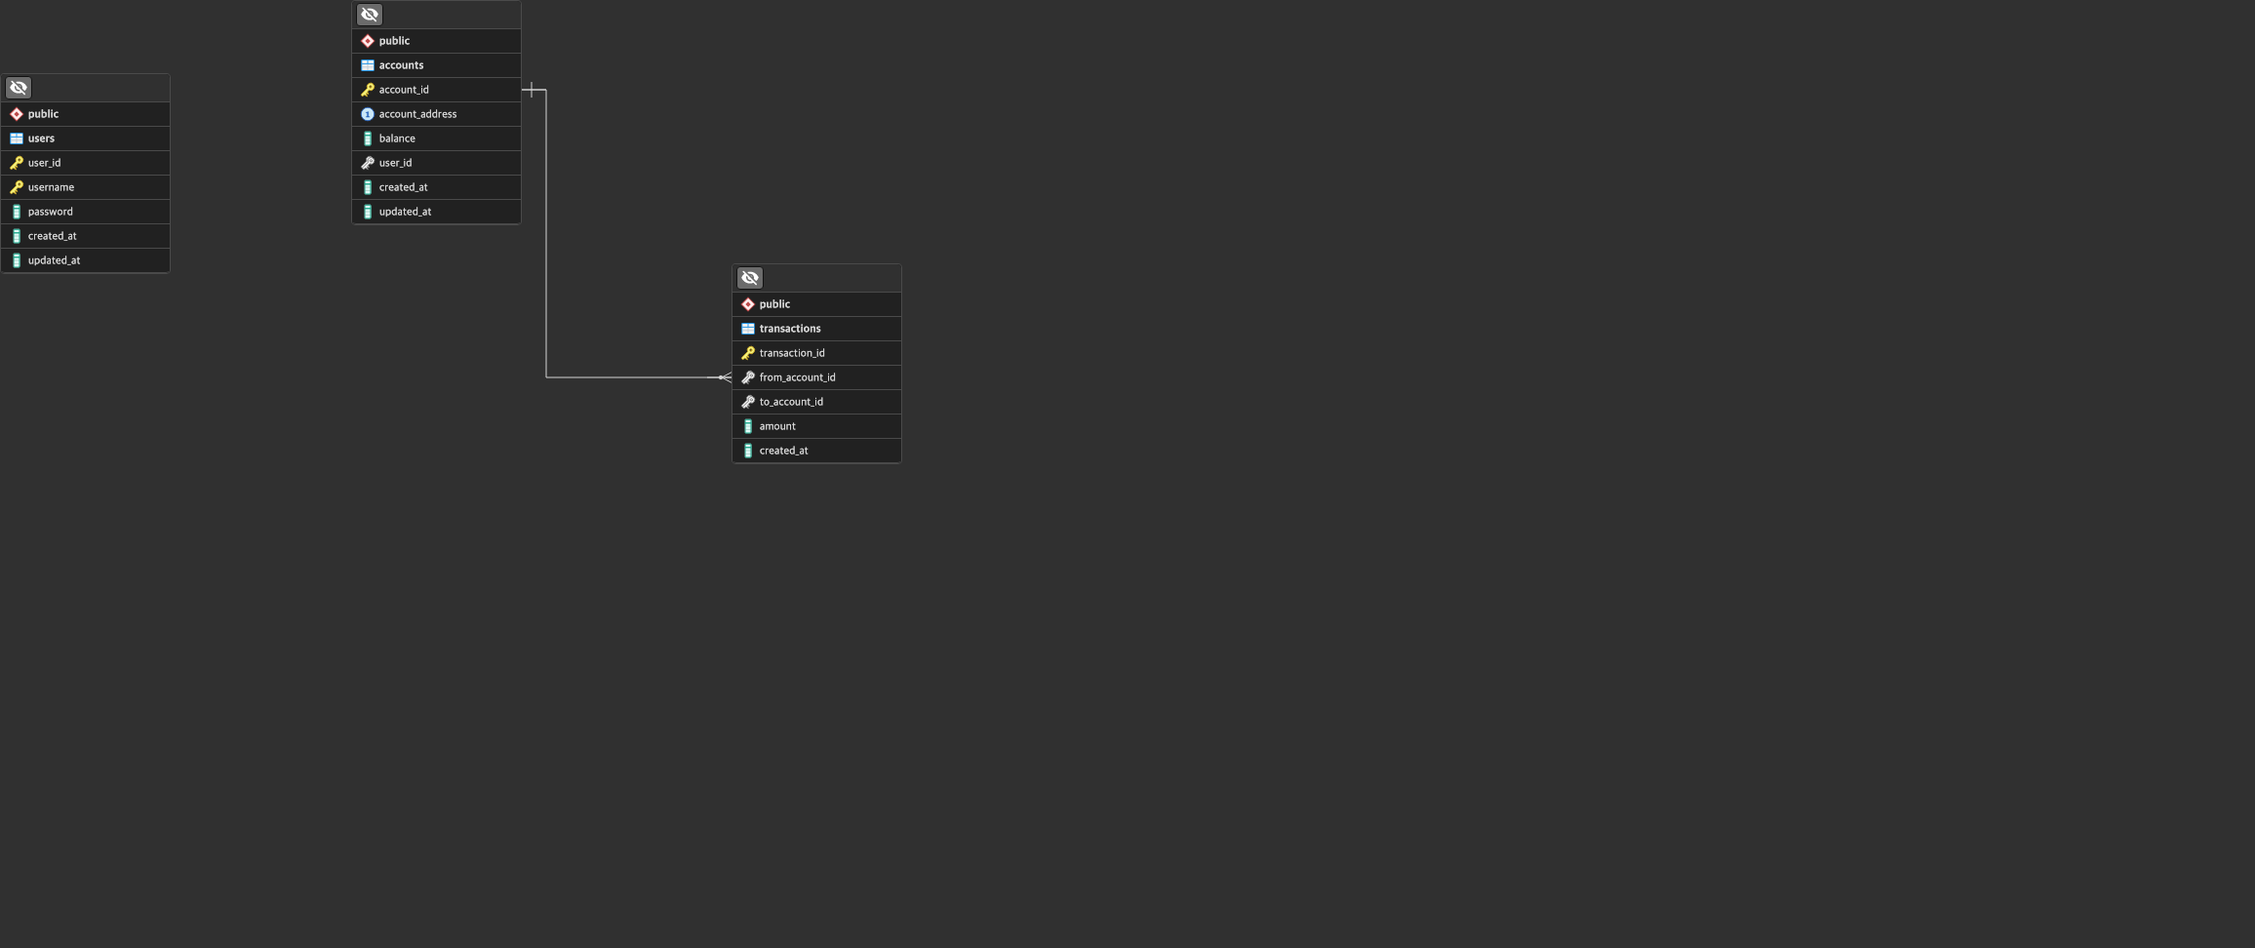
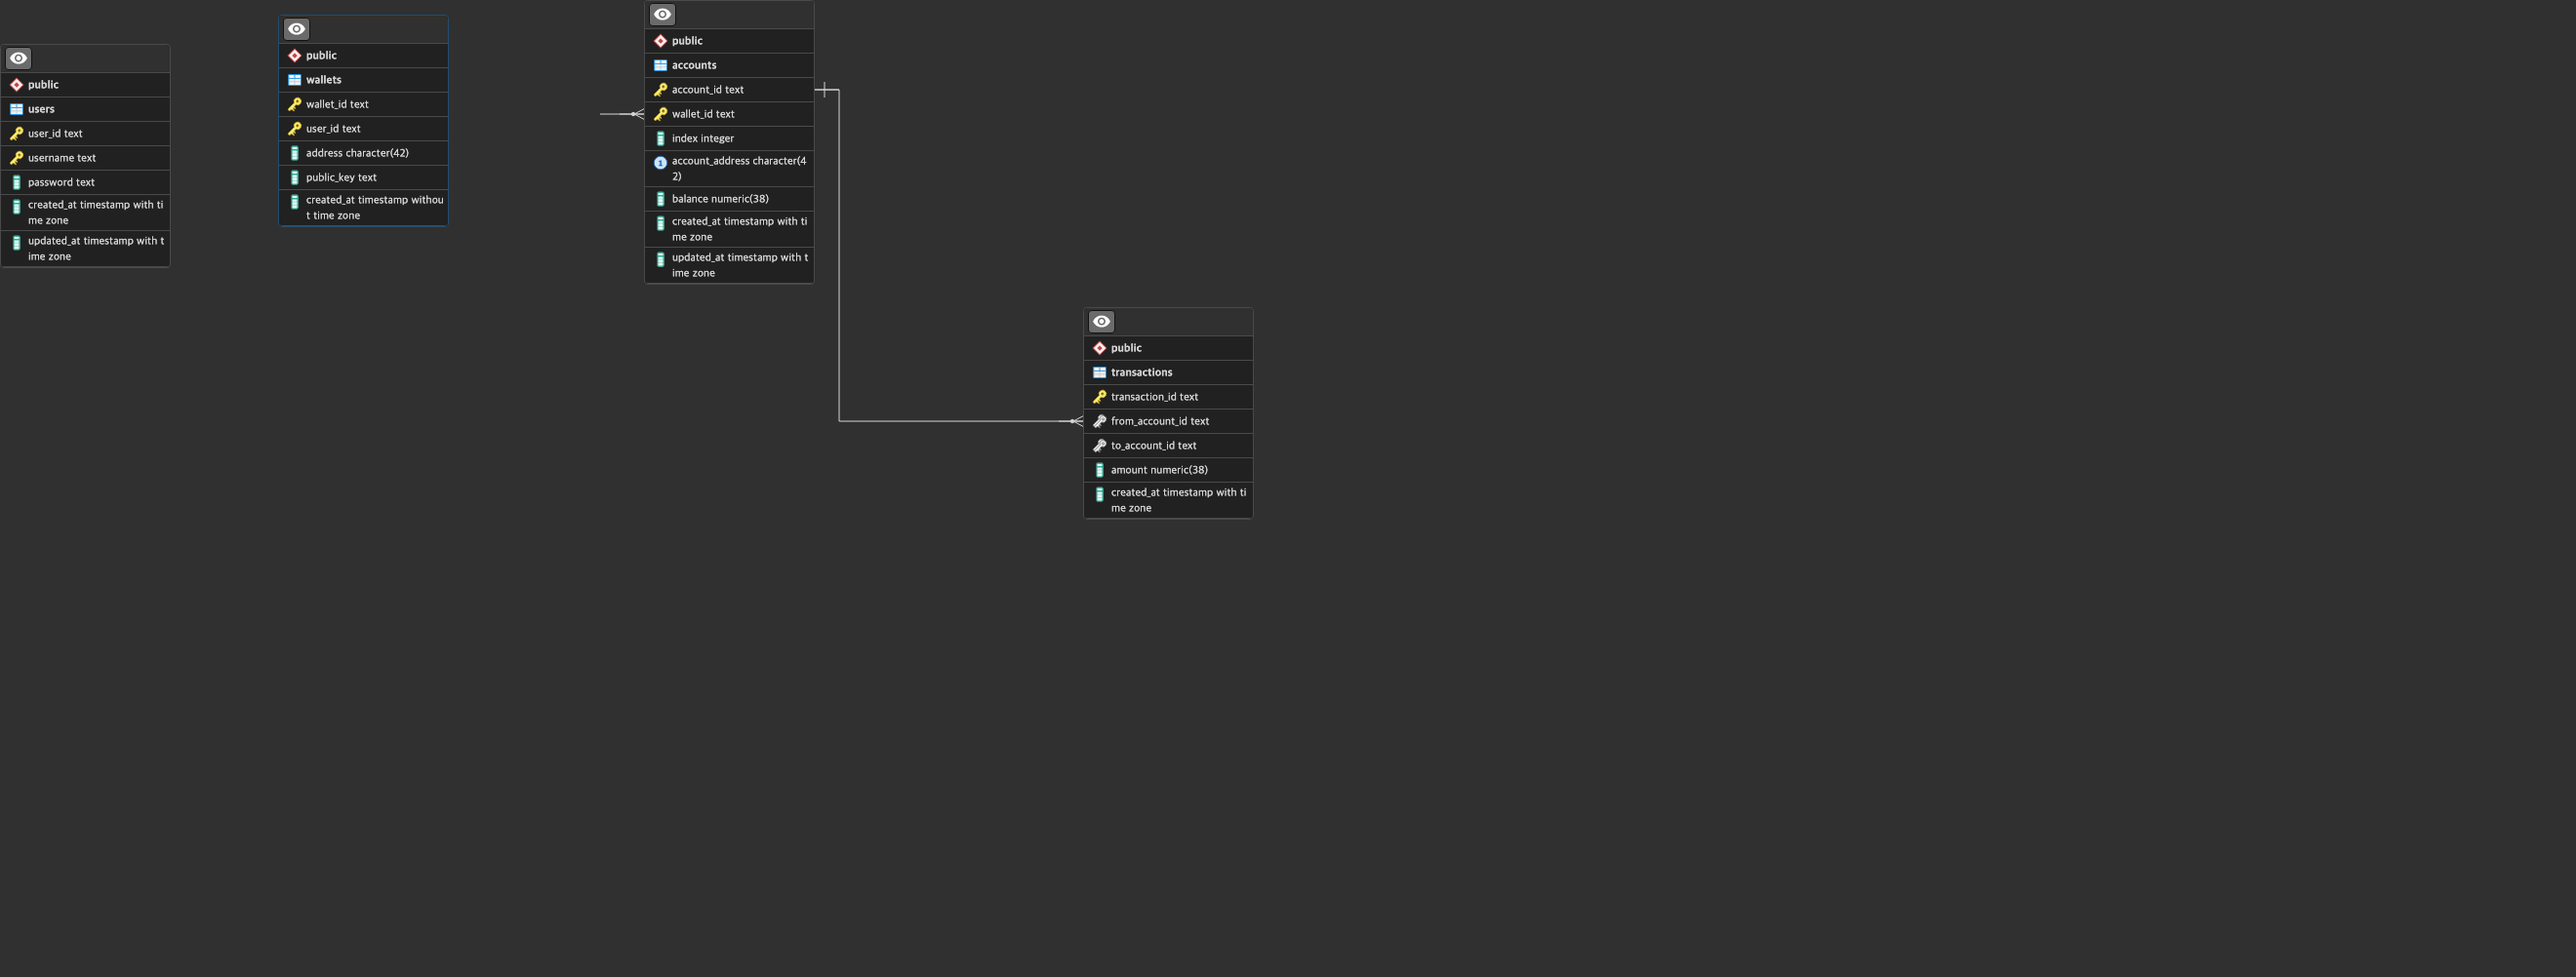
ERD Schema drift: Add wallet table

diff --git a/src/common/database/entities/account.entity.ts b/src/common/database/entities/account.entity.ts
@@ -4,30 +4,30 @@ import {
   ManyToOne,
   OneToMany,
   PrimaryKey,
+  PrimaryKeyType,
   Property,
-  Unique,
 } from '@mikro-orm/core';
 import { Timestamp } from '@common/database/entities';
 import { AccountRepository } from '../repositories';
-import { User } from './user.entity';
+import { Wallet } from './wallet.entity';
 import { Transaction } from './transaction.entity';
 
 @Entity({ tableName: 'accounts', customRepository: () => AccountRepository })
 export class Account extends Timestamp {
   [EntityRepositoryType]?: AccountRepository;
 
-  @PrimaryKey({
-    type: 'uuid',
-    defaultRaw: 'uuid_generate_v4()',
-    name: 'account_id',
-  })
+  @PrimaryKey({ type: 'text', unique: true, name: 'account_id' })
   id!: string;
 
-  @Unique({ name: 'accounts_user_id_index', properties: ['index', 'user'] })
+  @PrimaryKey({ type: 'text', name: 'wallet_id' })
+  walletId!: string;
+
+  [PrimaryKeyType]?: [string, string];
+
   @Property({ type: 'integer', name: 'index' })
   index!: number;
 
-  @Property({ type: 'text', unique: true, name: 'account_address' })
+  @Property({ type: 'char', length: 42, unique: true, name: 'account_address' })
   accountAddress!: string;
 
   @Property({
@@ -39,12 +39,18 @@ export class Account extends Timestamp {
   })
   balance!: string;
 
-  @ManyToOne(() => User, { fieldName: 'user_id' })
-  user!: User;
+  @ManyToOne(() => Wallet, { primary: true })
+  wallet!: Wallet;
 
   @OneToMany(() => Transaction, (transaction) => transaction.sender)
   senderTxs!: Transaction[];
 
   @OneToMany(() => Transaction, (transaction) => transaction.recipient)
   recipientTxs!: Transaction[];
+
+  constructor(id: string, walletId: string) {
+    super();
+    this.id = id;
+    this.walletId = walletId;
+  }
 }

diff --git a/src/common/database/entities/user.entity.ts b/src/common/database/entities/user.entity.ts
@@ -1,6 +1,6 @@
-import { Entity, OneToMany, PrimaryKey, Property } from '@mikro-orm/core';
+import { Entity, OneToOne, PrimaryKey, Property } from '@mikro-orm/core';
 import { Timestamp } from '@common/database/entities';
-import { Account } from './account.entity';
+import { Wallet } from './wallet.entity';
 
 @Entity({ tableName: 'users' })
 export class User extends Timestamp {
@@ -9,14 +9,14 @@ export class User extends Timestamp {
     defaultRaw: 'uuid_generate_v4()',
     name: 'user_id',
   })
-  readonly id!: string;
+  id!: string;
 
   @Property({ type: 'text', unique: true, name: 'username' })
-  readonly username!: string;
+  username!: string;
 
   @Property({ type: 'text', hidden: true, name: 'password' })
-  readonly password!: string;
+  password!: string;
 
-  @OneToMany(() => Account, (account) => account.user)
-  readonly accounts!: Account[];
+  @OneToOne(() => Wallet)
+  wallet!: Wallet;
 }

diff --git a/src/common/database/entities/wallet.entity.ts b/src/common/database/entities/wallet.entity.ts
@@ -1,0 +1,35 @@
+import { PickType } from '@nestjs/swagger';
+import {
+  Entity,
+  OneToMany,
+  PrimaryKey,
+  PrimaryKeyType,
+  Property,
+} from '@mikro-orm/core';
+import { Account, Timestamp } from '@common/database/entities';
+
+@Entity({ tableName: 'wallets' })
+export class Wallet extends PickType(Timestamp, ['createdAt'] as const) {
+  @PrimaryKey({ type: 'text', unique: true, name: 'wallet_id' })
+  id!: string;
+
+  @PrimaryKey({ type: 'text', unique: true, name: 'user_id' })
+  userId!: string;
+
+  [PrimaryKeyType]?: [string, string];
+
+  @Property({ type: 'char', length: 42, name: 'address' })
+  address!: string;
+
+  @Property({ type: 'text', name: 'public_key' })
+  publicKey!: string;
+
+  @OneToMany(() => Account, (account) => account.wallet)
+  accounts!: Account[];
+
+  constructor(id: string, userId: string) {
+    super();
+    this.id = id;
+    this.userId = userId;
+  }
+}

diff --git a/src/modules/account/infrastructure/adapters/wallet.service.ts b/src/modules/account/infrastructure/adapters/wallet.service.ts
@@ -6,6 +6,7 @@ import type { IWalletService } from '../../application/adapters/wallet.service.i
 export class WalletService implements IWalletService {
   createWallet(password: string) {
     const hdnode = HDNodeWallet.createRandom(password);
+    console.log(hdnode);
     return {
       phrase: hdnode.mnemonic.phrase,
       address: hdnode.deriveChild(0).address,
